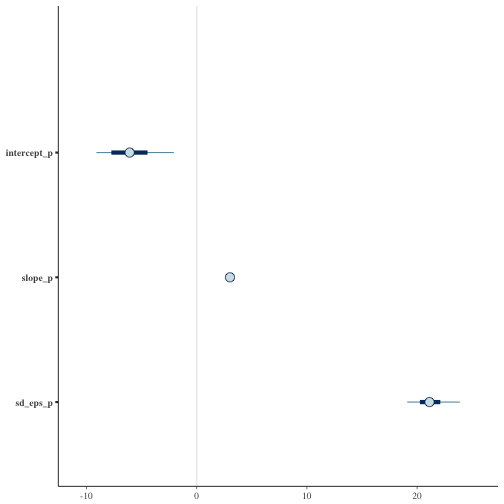
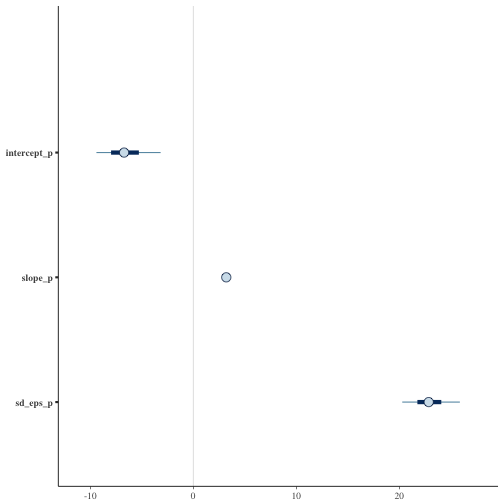
yeehaw

diff --git a/greta-playground.html b/greta-playground.html
@@ -39,7 +39,7 @@
 <meta property="og:locale" content="en_US"/>
 <meta property="og:url" content="./greta-playground.html"/>
 <meta property="og:type" content="article"/>
-<meta property="article:published_time" content="2018-03-14 14:35:01.571057+01:00"/>
+<meta property="article:published_time" content="2018-03-14 14:42:14.677266+01:00"/>
 <meta property="article:modified_time" content=""/>
 <meta property="article:author" content="./author/pras.html">
 <meta property="article:section" content="blogs"/>
@@ -108,7 +108,7 @@ ggplot<span class="p">(</span>data<span class="p">,</span> aes<span class="p">(<
 </pre></div>
 
 
-<p><img alt="center" src="/figures/greta_playground/unnamed-chunk-2-1.png"></p>
+<p><img alt="center" src="figures/greta_playground/unnamed-chunk-2-1.png"></p>
 <p>Given this data, we want to write Greta code to infer the model parameters. Since we really don&#8217;t know anything about the prior distributions of our parameters, we look at the experimental data and take rough, uniform&nbsp;priors. </p>
 <h3>Defining clueless priors for model&nbsp;parameters</h3>
 <div class="highlight"><pre><span></span>intercept_p <span class="o">&lt;-</span> uniform<span class="p">(</span><span class="m">-10</span><span class="p">,</span> <span class="m">10</span><span class="p">)</span>
@@ -139,12 +139,12 @@ param_draws <span class="o">&lt;-</span> mcmc<span class="p">(</span>our_model<s
 </pre></div>
 
 
-<p><img alt="center" src="/figures/greta_playground/unnamed-chunk-6-1.png"></p>
+<p><img alt="center" src="figures/greta_playground/unnamed-chunk-6-1.png"></p>
 <div class="highlight"><pre><span></span>mcmc_intervals<span class="p">(</span>param_draws<span class="p">)</span>
 </pre></div>
 
 
-<p><img alt="center" src="/figures/greta_playground/unnamed-chunk-6-2.png"></p>
+<p><img alt="center" src="figures/greta_playground/unnamed-chunk-6-2.png"></p>
 <p>By inspection, it looks like the <a href="https://arxiv.org/abs/1701.02434"><span class="caps">HMC</span></a> has reached some reasonable values for our model&nbsp;parameters. </p>
 <p>Explicitly, the mean estimates can be computed from the <code>param_draws</code> data structure, or via the <code>greta::opt</code> function.   </p>
 <div class="highlight"><pre><span></span>param_draws_df <span class="o">&lt;-</span> as_data_frame<span class="p">(</span>param_draws<span class="p">[[</span><span class="m">1</span><span class="p">]])</span>
@@ -157,7 +157,7 @@ param_estimates <span class="o">%&gt;%</span> <span class="kp">print</span><span
 <div class="highlight"><pre><span></span>## # A tibble: 1 x 3
 ##   intercept_p slope_p sd_eps_p
 ##         &lt;dbl&gt;   &lt;dbl&gt;    &lt;dbl&gt;
-## 1       -5.95    3.02     21.2
+## 1       -6.56    3.19     22.9
 </pre></div>
 
 
@@ -167,7 +167,7 @@ opt_params<span class="o">$</span>par <span class="o">%&gt;%</span> <span class=
 
 
 <div class="highlight"><pre><span></span>## intercept_p     slope_p    sd_eps_p 
-##   -5.106374    2.980471   19.102325
+##   -7.186813    3.330157   21.392551
 </pre></div>
 
 
@@ -179,12 +179,12 @@ mean_y_est <span class="o">&lt;-</span> <span class="kp">colMeans</span><span cl
 data_pred <span class="o">&lt;-</span> data <span class="o">%&gt;%</span> mutate<span class="p">(</span>y_fit <span class="o">=</span> mean_y_est<span class="p">)</span>
 ggplot<span class="p">(</span>data_pred<span class="p">)</span> <span class="o">+</span>
     geom_point<span class="p">(</span>aes<span class="p">(</span>x<span class="p">,</span>y<span class="p">),</span> colour <span class="o">=</span> <span class="s">&quot;blue&quot;</span><span class="p">)</span> <span class="o">+</span>
-    geom_smooth<span class="p">(</span>aes<span class="p">(</span>x<span class="p">,</span>y<span class="p">),</span> colour <span class="o">=</span> <span class="s">&#39;blue&#39;</span><span class="p">,</span> method <span class="o">=</span> <span class="s">&#39;lm&#39;</span><span class="p">)</span> <span class="o">+</span>
-    geom_line<span class="p">(</span>aes<span class="p">(</span>x<span class="p">,</span>y_fit<span class="p">),</span> colour <span class="o">=</span> <span class="s">&#39;red&#39;</span><span class="p">)</span>
+    geom_line<span class="p">(</span>aes<span class="p">(</span>x<span class="p">,</span>y_fit<span class="p">),</span> colour <span class="o">=</span> <span class="s">&#39;red&#39;</span><span class="p">)</span> <span class="o">+</span>
+    ggtitle<span class="p">(</span><span class="s">&quot;Fitted model&quot;</span><span class="p">)</span>
 </pre></div>
 
 
-<p><img alt="center" src="/figures/greta_playground/unnamed-chunk-8-1.png"></p>
+<p><img alt="center" src="figures/greta_playground/unnamed-chunk-8-1.png"></p>
   </div>
   <div class="tag-cloud">
     <p>

diff --git a/output/greta-playground.html b/output/greta-playground.html
@@ -39,7 +39,7 @@
 <meta property="og:locale" content="en_US"/>
 <meta property="og:url" content="./greta-playground.html"/>
 <meta property="og:type" content="article"/>
-<meta property="article:published_time" content="2018-03-14 14:35:01.571057+01:00"/>
+<meta property="article:published_time" content="2018-03-14 14:42:14.677266+01:00"/>
 <meta property="article:modified_time" content=""/>
 <meta property="article:author" content="./author/pras.html">
 <meta property="article:section" content="blogs"/>
@@ -108,7 +108,7 @@ ggplot<span class="p">(</span>data<span class="p">,</span> aes<span class="p">(<
 </pre></div>
 
 
-<p><img alt="center" src="/figures/greta_playground/unnamed-chunk-2-1.png"></p>
+<p><img alt="center" src="figures/greta_playground/unnamed-chunk-2-1.png"></p>
 <p>Given this data, we want to write Greta code to infer the model parameters. Since we really don&#8217;t know anything about the prior distributions of our parameters, we look at the experimental data and take rough, uniform&nbsp;priors. </p>
 <h3>Defining clueless priors for model&nbsp;parameters</h3>
 <div class="highlight"><pre><span></span>intercept_p <span class="o">&lt;-</span> uniform<span class="p">(</span><span class="m">-10</span><span class="p">,</span> <span class="m">10</span><span class="p">)</span>
@@ -139,12 +139,12 @@ param_draws <span class="o">&lt;-</span> mcmc<span class="p">(</span>our_model<s
 </pre></div>
 
 
-<p><img alt="center" src="/figures/greta_playground/unnamed-chunk-6-1.png"></p>
+<p><img alt="center" src="figures/greta_playground/unnamed-chunk-6-1.png"></p>
 <div class="highlight"><pre><span></span>mcmc_intervals<span class="p">(</span>param_draws<span class="p">)</span>
 </pre></div>
 
 
-<p><img alt="center" src="/figures/greta_playground/unnamed-chunk-6-2.png"></p>
+<p><img alt="center" src="figures/greta_playground/unnamed-chunk-6-2.png"></p>
 <p>By inspection, it looks like the <a href="https://arxiv.org/abs/1701.02434"><span class="caps">HMC</span></a> has reached some reasonable values for our model&nbsp;parameters. </p>
 <p>Explicitly, the mean estimates can be computed from the <code>param_draws</code> data structure, or via the <code>greta::opt</code> function.   </p>
 <div class="highlight"><pre><span></span>param_draws_df <span class="o">&lt;-</span> as_data_frame<span class="p">(</span>param_draws<span class="p">[[</span><span class="m">1</span><span class="p">]])</span>
@@ -157,7 +157,7 @@ param_estimates <span class="o">%&gt;%</span> <span class="kp">print</span><span
 <div class="highlight"><pre><span></span>## # A tibble: 1 x 3
 ##   intercept_p slope_p sd_eps_p
 ##         &lt;dbl&gt;   &lt;dbl&gt;    &lt;dbl&gt;
-## 1       -5.95    3.02     21.2
+## 1       -6.56    3.19     22.9
 </pre></div>
 
 
@@ -167,7 +167,7 @@ opt_params<span class="o">$</span>par <span class="o">%&gt;%</span> <span class=
 
 
 <div class="highlight"><pre><span></span>## intercept_p     slope_p    sd_eps_p 
-##   -5.106374    2.980471   19.102325
+##   -7.186813    3.330157   21.392551
 </pre></div>
 
 
@@ -179,12 +179,12 @@ mean_y_est <span class="o">&lt;-</span> <span class="kp">colMeans</span><span cl
 data_pred <span class="o">&lt;-</span> data <span class="o">%&gt;%</span> mutate<span class="p">(</span>y_fit <span class="o">=</span> mean_y_est<span class="p">)</span>
 ggplot<span class="p">(</span>data_pred<span class="p">)</span> <span class="o">+</span>
     geom_point<span class="p">(</span>aes<span class="p">(</span>x<span class="p">,</span>y<span class="p">),</span> colour <span class="o">=</span> <span class="s">&quot;blue&quot;</span><span class="p">)</span> <span class="o">+</span>
-    geom_smooth<span class="p">(</span>aes<span class="p">(</span>x<span class="p">,</span>y<span class="p">),</span> colour <span class="o">=</span> <span class="s">&#39;blue&#39;</span><span class="p">,</span> method <span class="o">=</span> <span class="s">&#39;lm&#39;</span><span class="p">)</span> <span class="o">+</span>
-    geom_line<span class="p">(</span>aes<span class="p">(</span>x<span class="p">,</span>y_fit<span class="p">),</span> colour <span class="o">=</span> <span class="s">&#39;red&#39;</span><span class="p">)</span>
+    geom_line<span class="p">(</span>aes<span class="p">(</span>x<span class="p">,</span>y_fit<span class="p">),</span> colour <span class="o">=</span> <span class="s">&#39;red&#39;</span><span class="p">)</span> <span class="o">+</span>
+    ggtitle<span class="p">(</span><span class="s">&quot;Fitted model&quot;</span><span class="p">)</span>
 </pre></div>
 
 
-<p><img alt="center" src="/figures/greta_playground/unnamed-chunk-8-1.png"></p>
+<p><img alt="center" src="figures/greta_playground/unnamed-chunk-8-1.png"></p>
   </div>
   <div class="tag-cloud">
     <p>

diff --git a/content/blogs/greta_playground.md b/content/blogs/greta_playground.md
@@ -32,7 +32,7 @@ ggplot(data, aes(x = x, y = y)) +
   ggtitle("Fake experimental data")
 ```
 
-![center](/figures/greta_playground/unnamed-chunk-2-1.png)
+![center](figures/greta_playground/unnamed-chunk-2-1.png)
 
 Given this data, we want to write Greta code to infer the model parameters. Since we really don't know anything about the prior distributions of our parameters, we look at the experimental data and take rough, uniform priors. 
 
@@ -73,13 +73,13 @@ and plot the samples, and the parameter fits.
 mcmc_dens(param_draws)
 ```
 
-![center](/figures/greta_playground/unnamed-chunk-6-1.png)
+![center](figures/greta_playground/unnamed-chunk-6-1.png)
 
 ```r
 mcmc_intervals(param_draws)
 ```
 
-![center](/figures/greta_playground/unnamed-chunk-6-2.png)
+![center](figures/greta_playground/unnamed-chunk-6-2.png)
 
 By inspection, it looks like the [HMC](https://arxiv.org/abs/1701.02434) has reached some reasonable values for our model parameters. 
 
@@ -96,7 +96,7 @@ param_estimates %>% print()
 ## # A tibble: 1 x 3
 ##   intercept_p slope_p sd_eps_p
 ##         <dbl>   <dbl>    <dbl>
-## 1       -5.95    3.02     21.2
+## 1       -6.56    3.19     22.9
 ```
 
 ```r
@@ -106,7 +106,7 @@ opt_params$par %>% print()
 
 ```
 ## intercept_p     slope_p    sd_eps_p 
-##   -5.106374    2.980471   19.102325
+##   -7.186813    3.330157   21.392551
 ```
 
 ### Plotting against data
@@ -120,9 +120,9 @@ mean_y_est <- colMeans(mean_y_plot_draws[[1]])
 data_pred <- data %>% mutate(y_fit = mean_y_est)
 ggplot(data_pred) +
     geom_point(aes(x,y), colour = "blue") +
-    geom_smooth(aes(x,y), colour = 'blue', method = 'lm') +
-    geom_line(aes(x,y_fit), colour = 'red')
+    geom_line(aes(x,y_fit), colour = 'red') +
+    ggtitle("Fitted model")
 ```
 
-![center](/figures/greta_playground/unnamed-chunk-8-1.png)
+![center](figures/greta_playground/unnamed-chunk-8-1.png)
 
